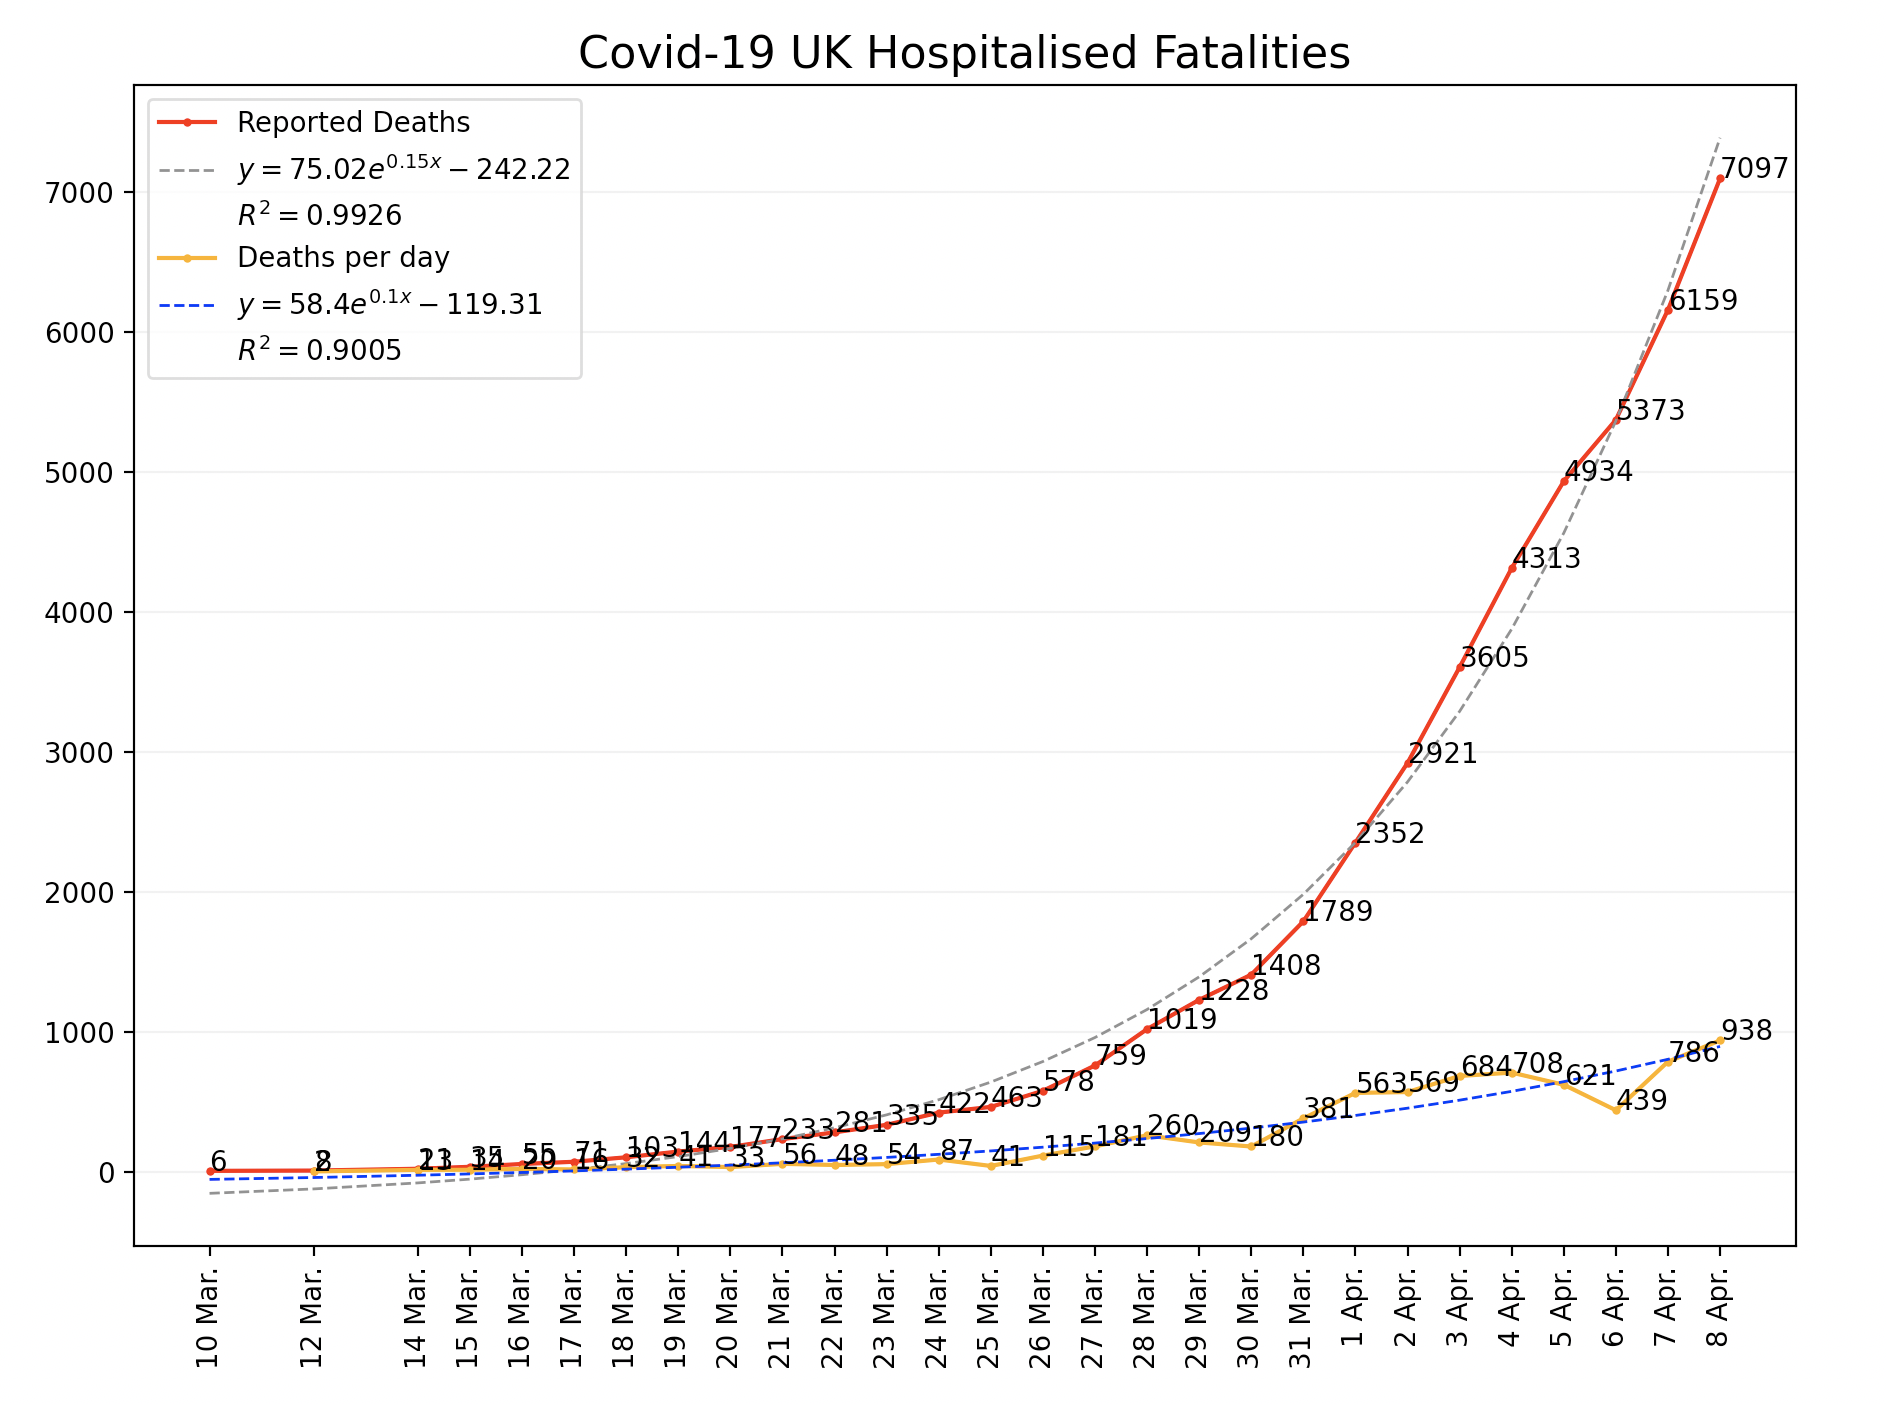
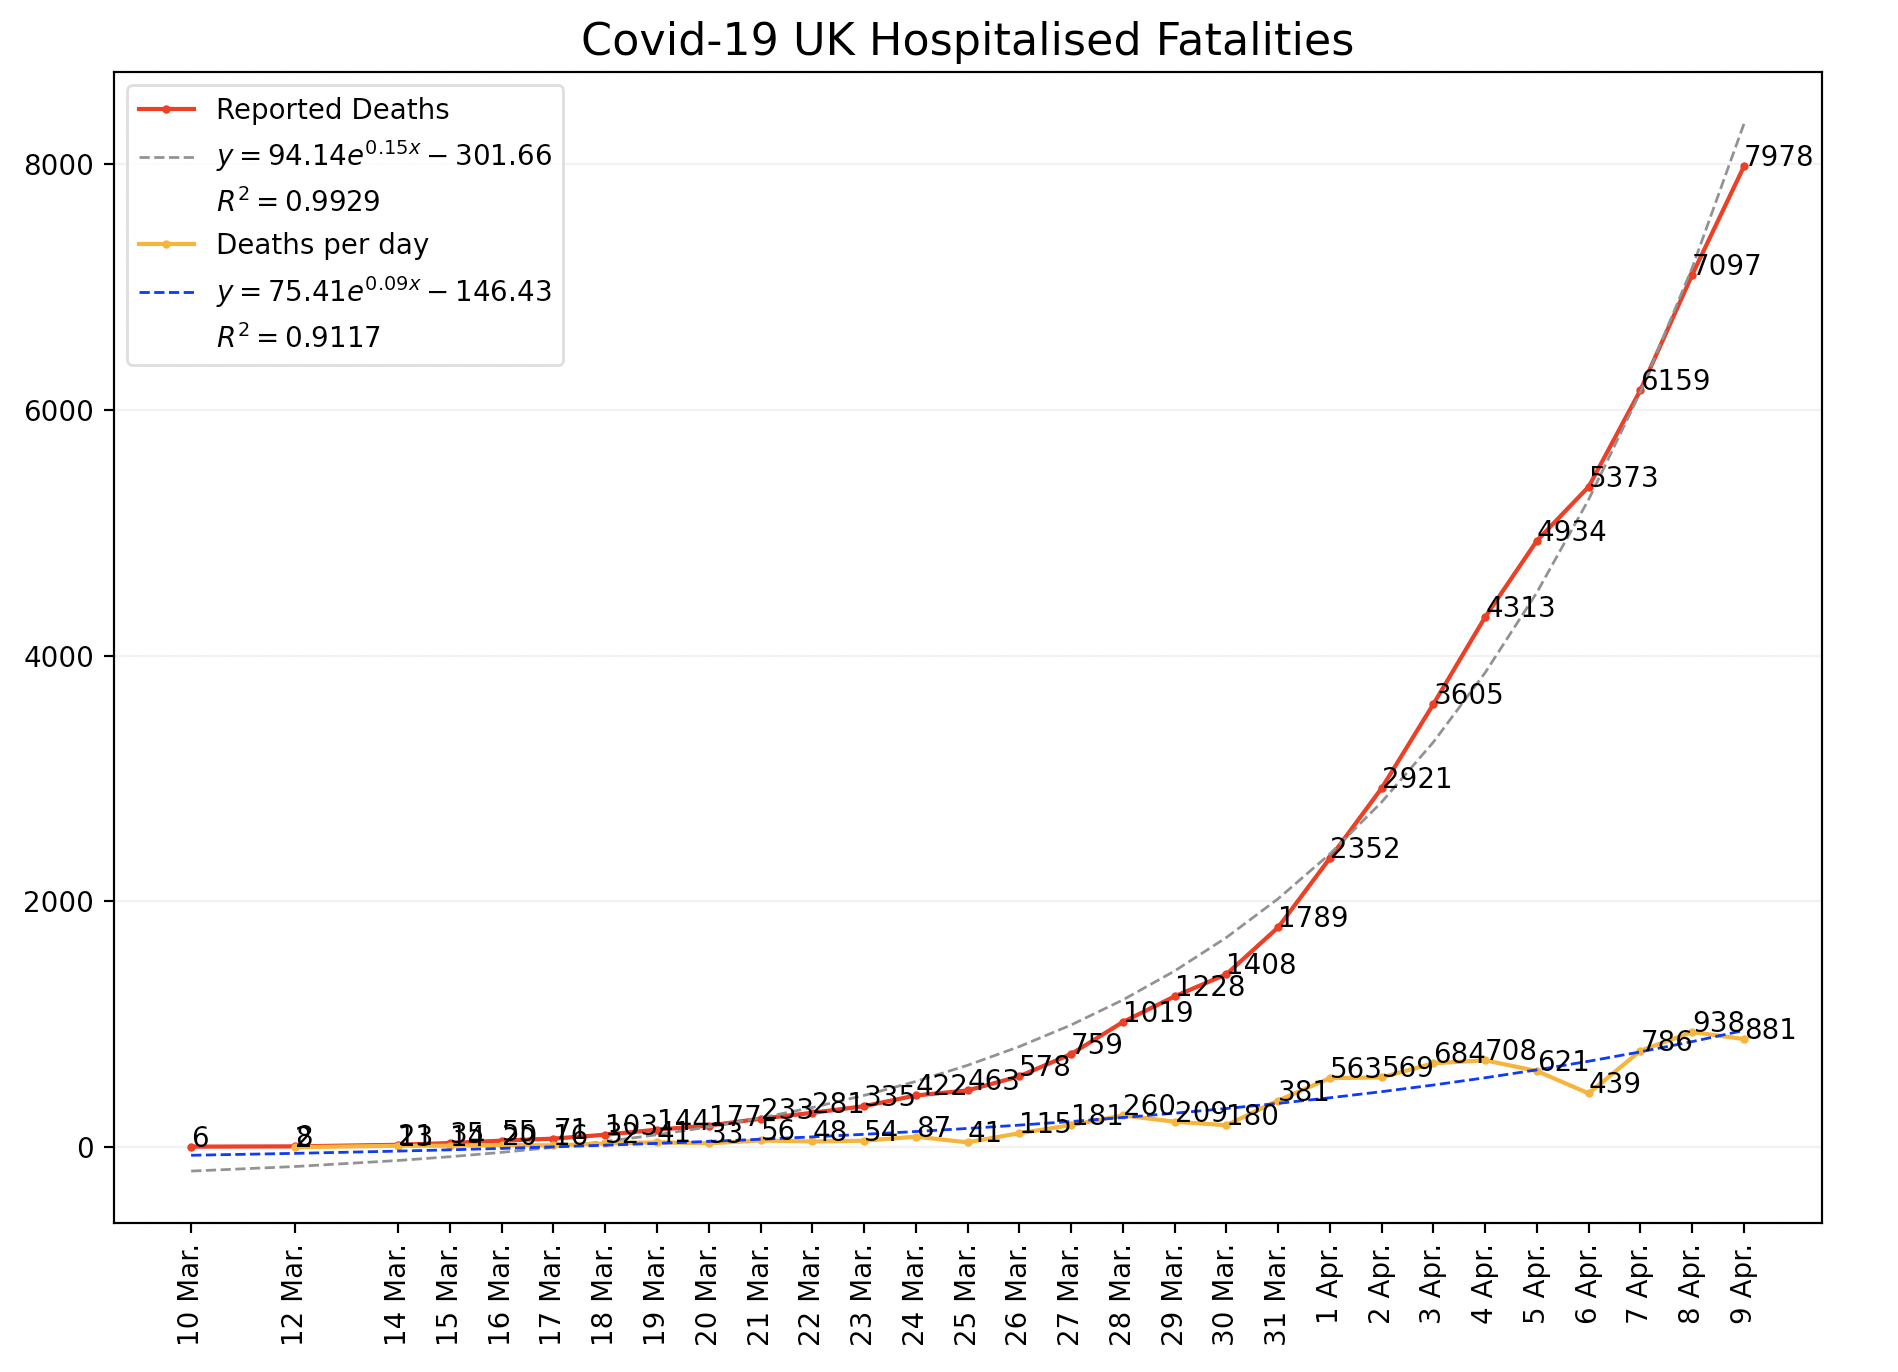
Adds data for 9th April

diff --git a/plot.py b/plot.py
@@ -7,13 +7,13 @@ y = np.array([
     # Deaths
     6, 8, 21, 35, 55, 71, 103, 144, 177, 233, 281, 335, 422, 463,
     578, 759, 1019, 1228, 1408, 1789, 2352, 2921, 3605, 4313, 4934,
-    5373, 6159, 7097
+    5373, 6159, 7097, 7978
 ])
 
 x = np.array([
     # Day
     1, 3, 5, 6, 7, 8, 9, 10, 11, 12, 13, 14, 15, 16, 17, 18, 19, 20, 21,
-    22, 23, 24, 25, 26, 27, 28, 29, 30
+    22, 23, 24, 25, 26, 27, 28, 29, 30, 31
 ])
 
 labels = [
@@ -22,7 +22,7 @@ labels = [
     '18 Mar.', '19 Mar.', '20 Mar.', '21 Mar.', '22 Mar.', '23 Mar.',
     '24 Mar.', '25 Mar.', '26 Mar.', '27 Mar.', '28 Mar.', '29 Mar.',
     '30 Mar.', '31 Mar.', '1 Apr.', '2 Apr.', '3 Apr.', '4 Apr.',
-    '5 Apr.', '6 Apr.', '7 Apr.', '8 Apr.'
+    '5 Apr.', '6 Apr.', '7 Apr.', '8 Apr.', '9 Apr.'
 ]
 
 x_diffs = x[1:]

diff --git a/README.md b/README.md
@@ -19,6 +19,6 @@ pip install -r requirements.txt
 python plot.py
 ```
 
-## Latest plot (8th April)
+## Latest plot (9th April)
 
 ![Image description](https://github.com/zsoobhan/covid/blob/master/latest.png)
